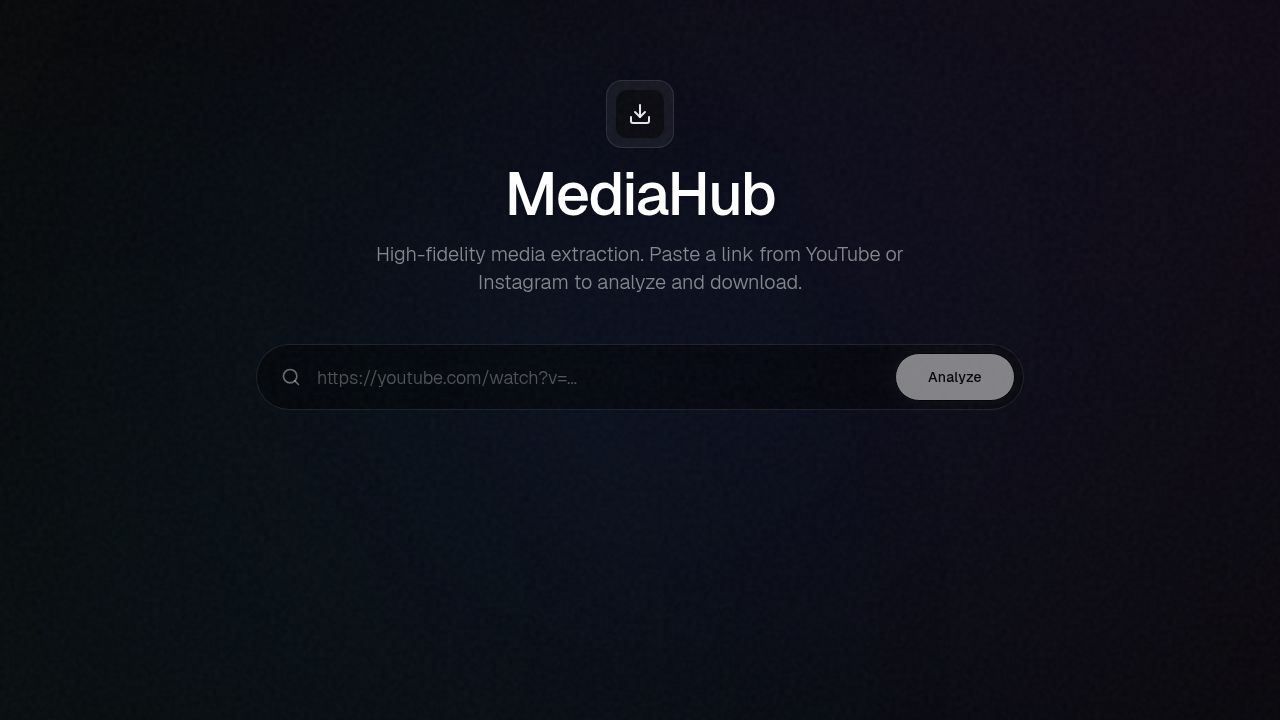
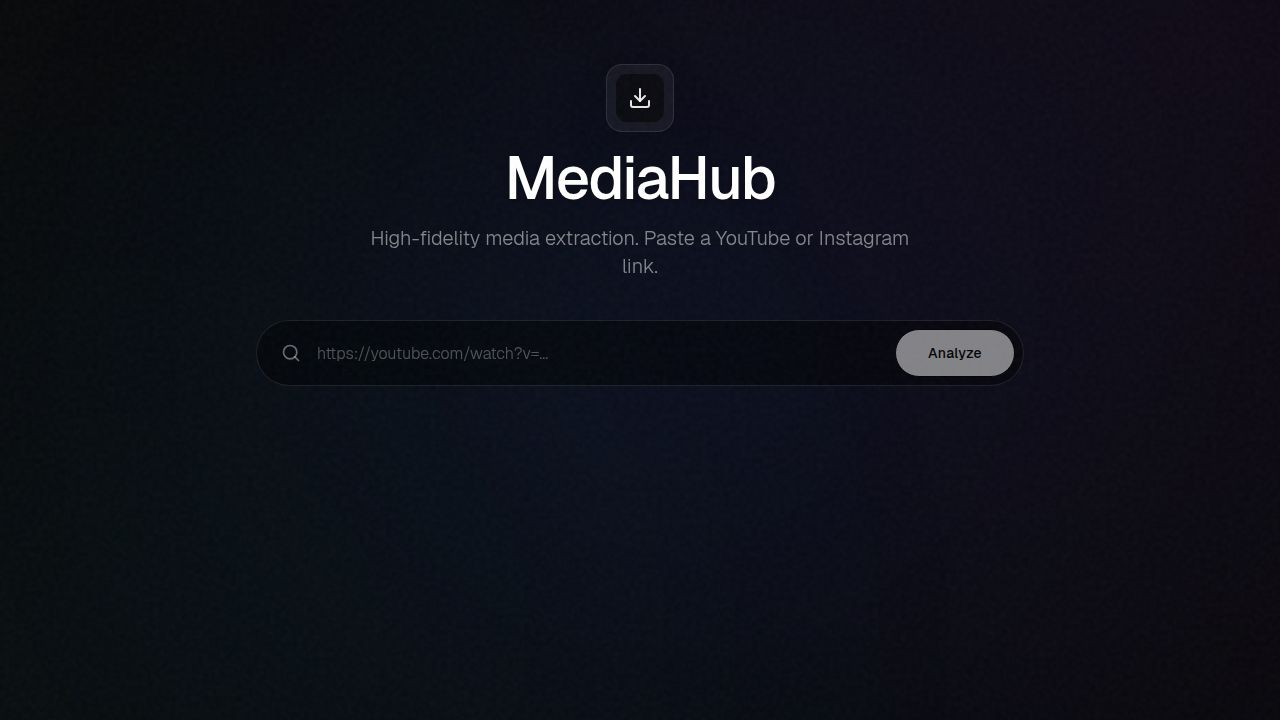
Improve website compatibility and user experience on Safari
Address Safari-specific issues by implementing robust CSS and JavaScript solutions, including viewport sizing, safe-area support, tap highlights, and download behavior, alongside type safety fixes.

Replit-Commit-Author: Agent
Replit-Commit-Session-Id: 689470e8-22d2-4141-9044-9d0b720d6800
Replit-Commit-Checkpoint-Type: full_checkpoint
Replit-Commit-Event-Id: 4c12b9e9-4ba4-4d09-8755-1990b6506f71
Replit-Commit-Screenshot-Url: https://storage.googleapis.com/screenshot-production-us-central1/d251e877-30f9-4d04-9860-83474d491b97/689470e8-22d2-4141-9044-9d0b720d6800/mgBh1Gb
Replit-Helium-Checkpoint-Created: true

diff --git a/artifacts/mediahub/src/pages/Home.tsx b/artifacts/mediahub/src/pages/Home.tsx
@@ -11,6 +11,18 @@ import { Alert, AlertDescription, AlertTitle } from "@/components/ui/alert";
 import { Badge } from "@/components/ui/badge";
 import { useToast } from "@/hooks/use-toast";
 
+// ── iOS / Safari detection ───────────────────────────────────────────────────
+// Every browser on iOS is forced to use WebKit, so ALL iOS browsers share the
+// same restrictions — including the missing `a.download` support.
+function isIOS(): boolean {
+  if (typeof navigator === "undefined") return false;
+  return (
+    /iPad|iPhone|iPod/.test(navigator.userAgent) ||
+    // iPadOS 13+ reports as MacIntel with touch points
+    (navigator.platform === "MacIntel" && navigator.maxTouchPoints > 1)
+  );
+}
+
 // ── Types ────────────────────────────────────────────────────────────────────
 interface DownloadState {
   id: string;
@@ -63,11 +75,28 @@ function useDownloadManager() {
       }));
 
       try {
+        // ── iOS Safari: `a.download` is not supported on any iOS browser.
+        // Buffering a large video in JS memory is also unreliable on mobile.
+        // Open the server URL directly — iOS 14.5+ has a built-in download
+        // manager that handles Content-Disposition:attachment correctly.
+        if (isIOS()) {
+          update(id, { status: "saving", loaded: 0, total: 0, speedBps: 0, etaSec: null });
+          window.open(href, "_blank", "noopener,noreferrer");
+          setTimeout(() => {
+            update(id, { status: "done" });
+            setTimeout(() => remove(id), 5000);
+          }, 1200);
+          return;
+        }
+
         const controller = new AbortController();
         const response = await fetch(href, { signal: controller.signal });
 
         if (!response.ok) {
-          update(id, { status: "error", error: `Server error ${response.status}` });
+          const errText = await response.text().catch(() => "");
+          let msg = `Server error ${response.status}`;
+          try { msg = (JSON.parse(errText) as { error?: string }).error ?? msg; } catch { /* ignore */ }
+          update(id, { status: "error", error: msg });
           return;
         }
 
@@ -75,7 +104,23 @@ function useDownloadManager() {
         const total = contentLength ? parseInt(contentLength, 10) : (knownSize ?? 0);
         update(id, { status: "downloading", total });
 
-        const reader = response.body!.getReader();
+        // response.body is null in some very old environments; guard defensively.
+        if (!response.body) {
+          const blob = await response.blob();
+          const objectUrl = URL.createObjectURL(blob);
+          const a = document.createElement("a");
+          a.href = objectUrl;
+          a.download = filename;
+          document.body.appendChild(a);
+          a.click();
+          document.body.removeChild(a);
+          URL.revokeObjectURL(objectUrl);
+          update(id, { status: "done" });
+          setTimeout(() => remove(id), 4000);
+          return;
+        }
+
+        const reader = response.body.getReader();
         const chunks: Uint8Array[] = [];
         let loaded = 0;
         let lastLoaded = 0;
@@ -107,7 +152,7 @@ function useDownloadManager() {
         update(id, { status: "saving", loaded, speedBps: 0, etaSec: null });
 
         // Assemble blob and trigger save
-        const blob = new Blob(chunks);
+        const blob = new Blob(chunks as BlobPart[]);
         const objectUrl = URL.createObjectURL(blob);
         const a = document.createElement("a");
         a.href = objectUrl;
@@ -154,7 +199,7 @@ function DownloadCard({ dl, onDismiss }: { dl: DownloadState; onDismiss: () => v
           )}
           <span className="text-sm text-white/80 truncate font-medium">{dl.label}</span>
         </div>
-        <button onClick={onDismiss} className="p-1 text-white/30 hover:text-white/70 transition-colors shrink-0">
+        <button onClick={onDismiss} className="p-2.5 -mr-1.5 text-white/30 hover:text-white/70 transition-colors shrink-0" aria-label="Dismiss">
           <X className="w-3.5 h-3.5" />
         </button>
       </div>
@@ -225,11 +270,27 @@ export default function Home() {
     fetchMedia.mutate({ data: { url: url.trim() } });
   };
 
-  const handleCopy = () => {
-    navigator.clipboard.writeText(url);
-    setCopied(true);
-    setTimeout(() => setCopied(false), 2000);
-    toast({ description: "URL copied to clipboard" });
+  const handleCopy = async () => {
+    try {
+      if (navigator.clipboard?.writeText) {
+        await navigator.clipboard.writeText(url);
+      } else {
+        // Fallback for HTTP contexts or older Safari where clipboard API is absent
+        const ta = document.createElement("textarea");
+        ta.value = url;
+        ta.style.cssText = "position:fixed;top:0;left:0;opacity:0;pointer-events:none";
+        document.body.appendChild(ta);
+        ta.focus();
+        ta.select();
+        document.execCommand("copy");
+        document.body.removeChild(ta);
+      }
+      setCopied(true);
+      setTimeout(() => setCopied(false), 2000);
+      toast({ description: "URL copied to clipboard" });
+    } catch {
+      toast({ description: "Couldn't copy — try selecting the URL manually", variant: "destructive" });
+    }
   };
 
   const clearInput = () => {
@@ -325,7 +386,7 @@ export default function Home() {
                 <button
                   type="button"
                   onClick={clearInput}
-                  className="p-2 text-white/40 hover:text-white/80 transition-colors mr-1"
+                  className="p-3 text-white/40 hover:text-white/80 transition-colors mr-1"
                   aria-label="Clear"
                 >
                   <X className="w-4 h-4" />
@@ -367,7 +428,7 @@ export default function Home() {
           <Alert variant="destructive" className="glass-panel border-red-500/20 bg-red-500/10 max-w-2xl mx-auto">
             <AlertTitle>Extraction Failed</AlertTitle>
             <AlertDescription className="text-red-200/80">
-              {error?.error ?? "Couldn't analyze that URL. Make sure it's a valid YouTube or Instagram link."}
+              {(error as { error?: string } | null)?.error ?? "Couldn't analyze that URL. Make sure it's a valid YouTube or Instagram link."}
             </AlertDescription>
             <Button variant="outline" size="sm" onClick={() => handleAnalyze()} className="mt-4 border-red-500/30 hover:bg-red-500/20 text-red-100">
               Try Again
@@ -454,7 +515,7 @@ export default function Home() {
                                 <Button
                                   onClick={() => handleVideoDownload(fmt)}
                                   size="sm"
-                                  className="bg-white text-black hover:bg-white/90 rounded-full px-4 h-8 text-xs font-medium opacity-0 group-hover:opacity-100 transition-all duration-200 focus:opacity-100"
+                                  className="bg-white text-black hover:bg-white/90 rounded-full px-4 h-8 text-xs font-medium opacity-100 md:opacity-0 md:group-hover:opacity-100 transition-all duration-200 focus:opacity-100"
                                 >
                                   <Download className="w-3 h-3 mr-1.5" />Download
                                 </Button>
@@ -502,7 +563,7 @@ export default function Home() {
                                 <Button
                                   onClick={() => handleAudioDownload(fmt)}
                                   size="sm"
-                                  className="bg-white text-black hover:bg-white/90 rounded-full px-4 h-8 text-xs font-medium opacity-0 group-hover:opacity-100 transition-all duration-200 focus:opacity-100"
+                                  className="bg-white text-black hover:bg-white/90 rounded-full px-4 h-8 text-xs font-medium opacity-100 md:opacity-0 md:group-hover:opacity-100 transition-all duration-200 focus:opacity-100"
                                 >
                                   <Download className="w-3 h-3 mr-1.5" />Download
                                 </Button>

diff --git a/artifacts/mediahub/src/index.css b/artifacts/mediahub/src/index.css
@@ -95,20 +95,35 @@
 @layer base {
   * {
     @apply border-border;
+    /* Remove the gray tap-highlight flash iOS applies to every tapped element */
+    -webkit-tap-highlight-color: transparent;
   }
 
   body {
     @apply font-sans antialiased bg-background text-foreground;
+    /* Safe-area padding for notch / home indicator (requires viewport-fit=cover) */
+    padding-top: env(safe-area-inset-top);
+    padding-left: env(safe-area-inset-left);
+    padding-right: env(safe-area-inset-right);
+    padding-bottom: env(safe-area-inset-bottom);
+  }
+
+  button, a, [role="button"] {
+    /* Prevent double-tap zoom on iOS, reducing the 300ms touch delay */
+    touch-action: manipulation;
   }
 }
 
 /* Glassmorphism utilities */
 .glass-panel {
   @apply bg-white/5 backdrop-blur-xl border border-white/10 shadow-xl;
+  /* Explicit -webkit- prefix for belt-and-suspenders Safari compat */
+  -webkit-backdrop-filter: blur(24px);
 }
 
 .glass-input {
   @apply bg-black/40 backdrop-blur-md border border-white/10 focus-within:border-white/30 focus-within:bg-black/60 transition-all duration-300;
+  -webkit-backdrop-filter: blur(12px);
 }
 
 /* Animated Aurora Background */
@@ -117,7 +132,8 @@
   top: 0;
   left: 0;
   width: 100vw;
-  height: 100vh;
+  height: 100vh;        /* fallback for browsers without dvh */
+  height: 100dvh;       /* iOS 15.4+: excludes collapsing browser chrome */
   z-index: -1;
   overflow: hidden;
   background: hsl(var(--background));
@@ -157,6 +173,7 @@
   left: 0;
   width: 100%;
   height: 100%;
+  height: 100dvh;
   pointer-events: none;
   z-index: 50;
   opacity: 0.04;

diff --git a/artifacts/mediahub/index.html b/artifacts/mediahub/index.html
@@ -2,7 +2,9 @@
 <html lang="en">
   <head>
     <meta charset="UTF-8" />
-    <meta name="viewport" content="width=device-width, initial-scale=1.0, maximum-scale=1" />
+    <meta name="viewport" content="width=device-width, initial-scale=1.0, viewport-fit=cover" />
+    <meta name="apple-mobile-web-app-capable" content="yes" />
+    <meta name="apple-mobile-web-app-status-bar-style" content="black-translucent" />
     <title>MediaHub</title>
     <meta name="description" content="MediaHub — built on Replit. Update this description to reflect the app." />
     <meta name="robots" content="index, follow" />